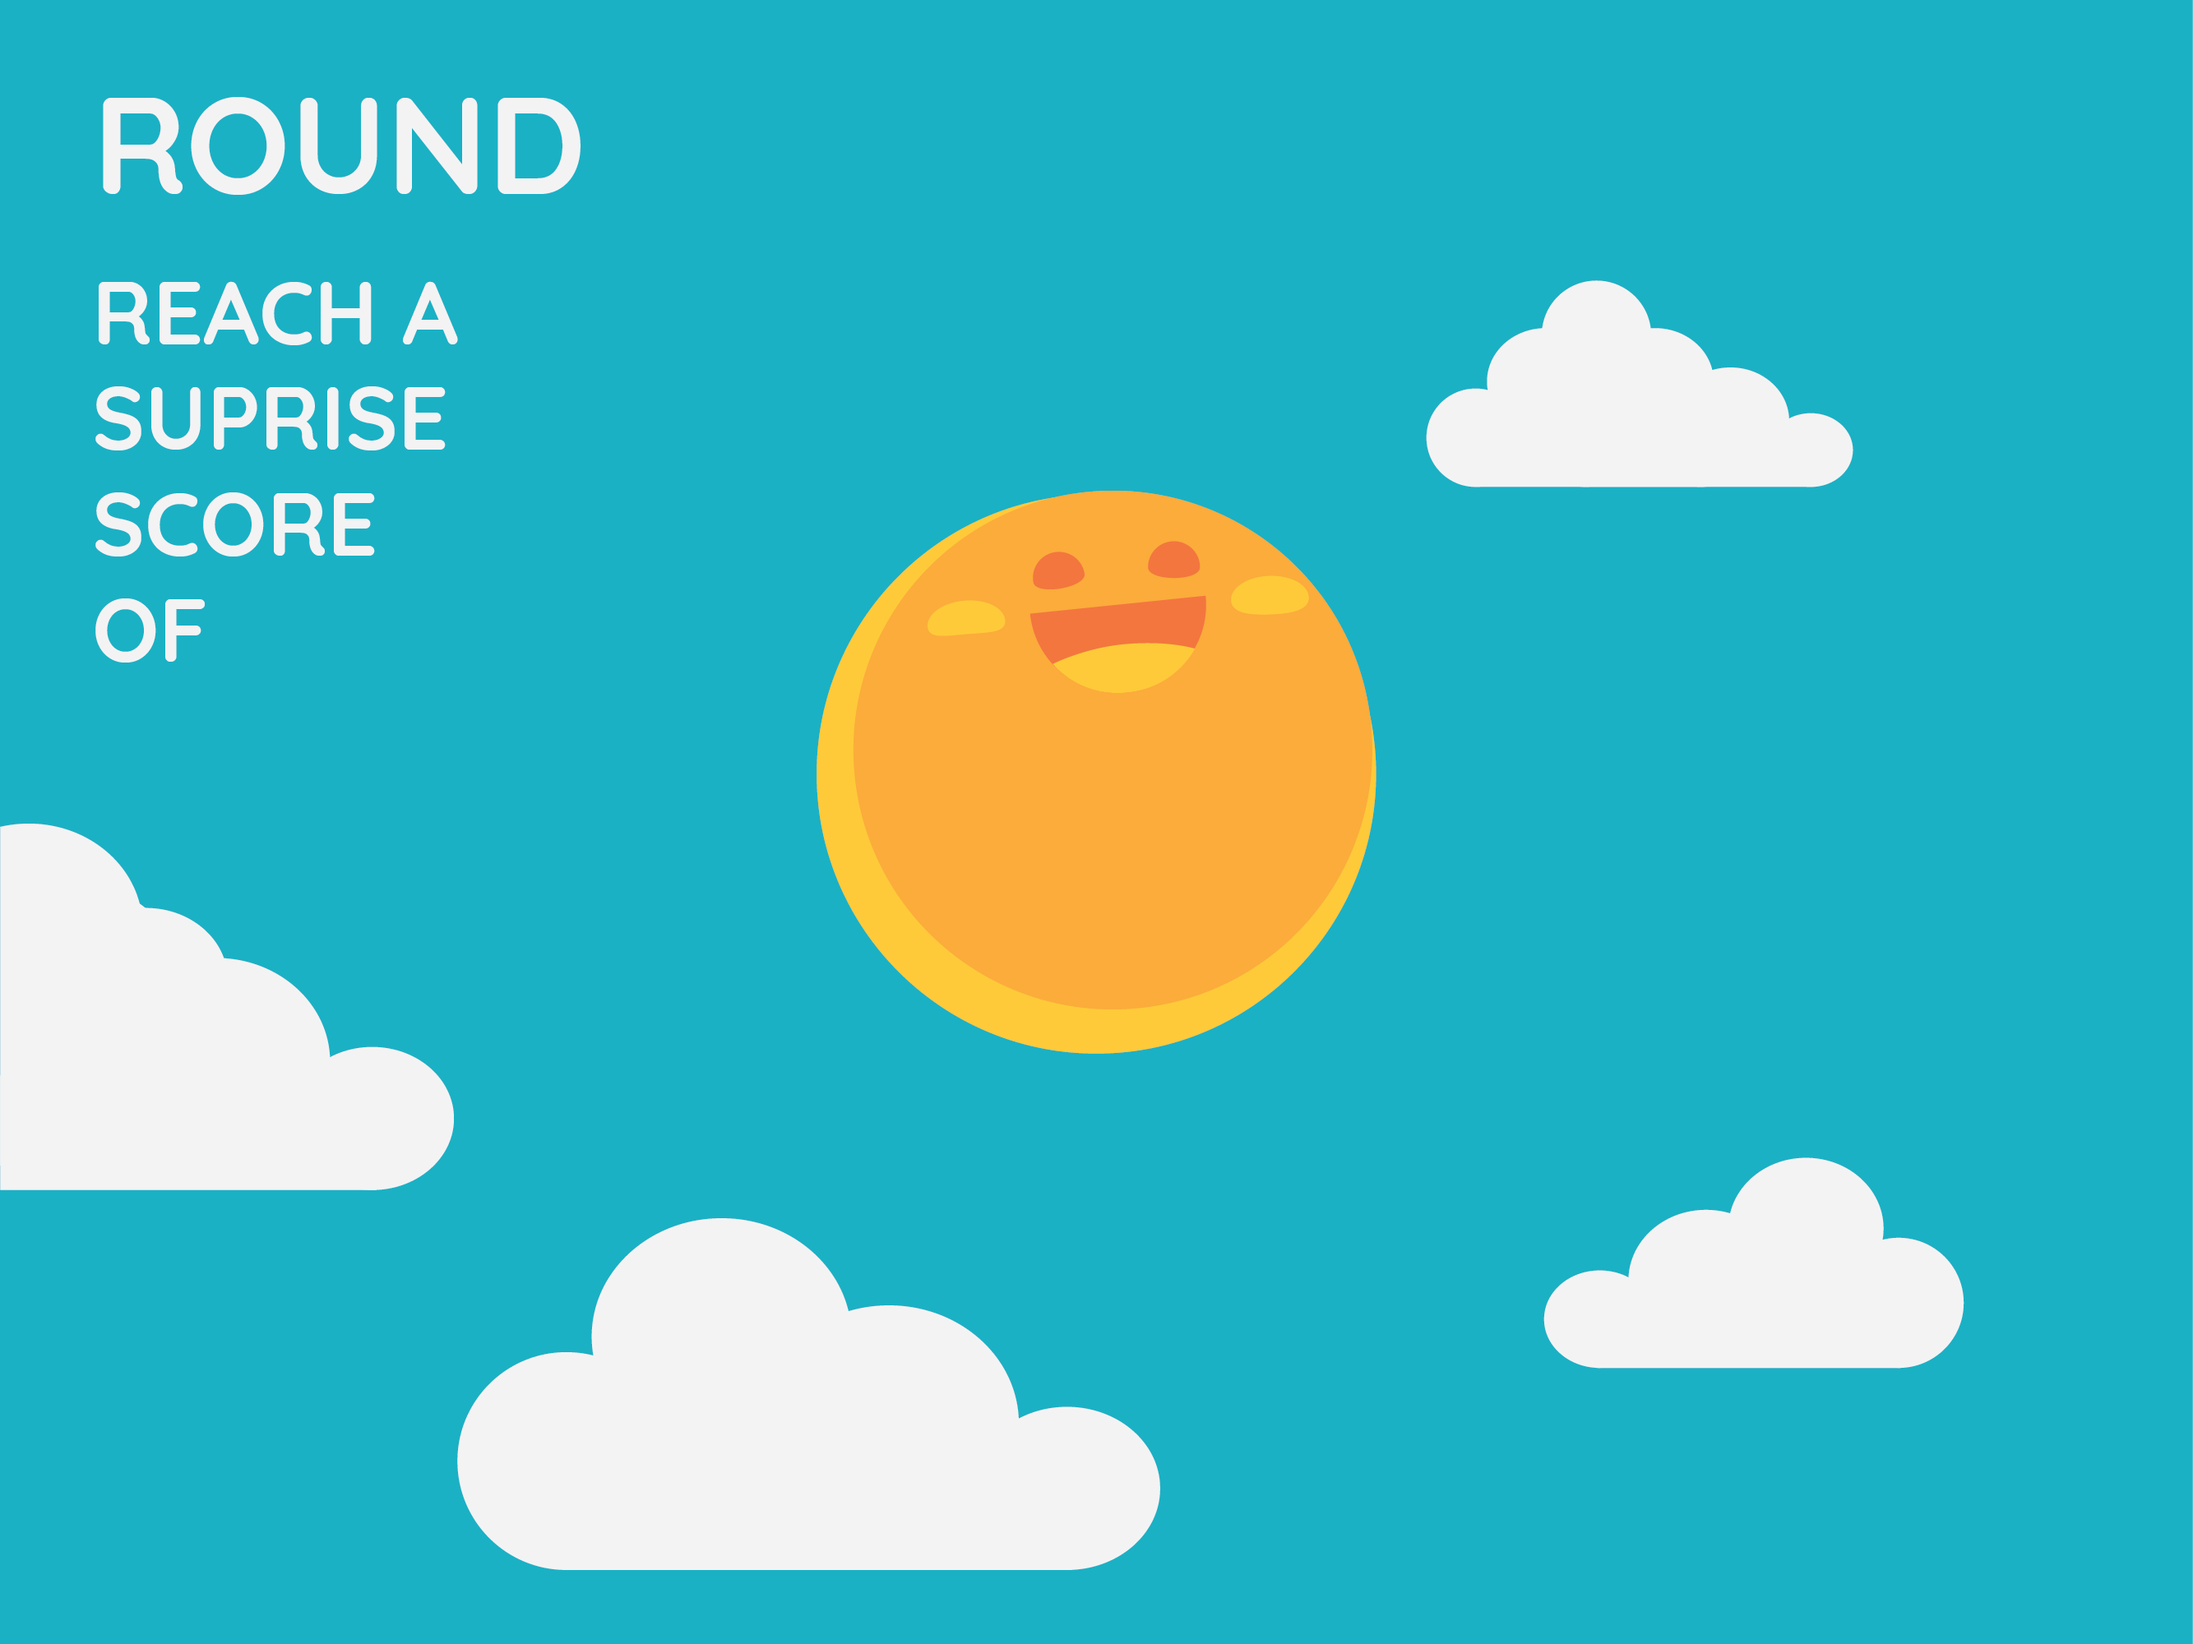
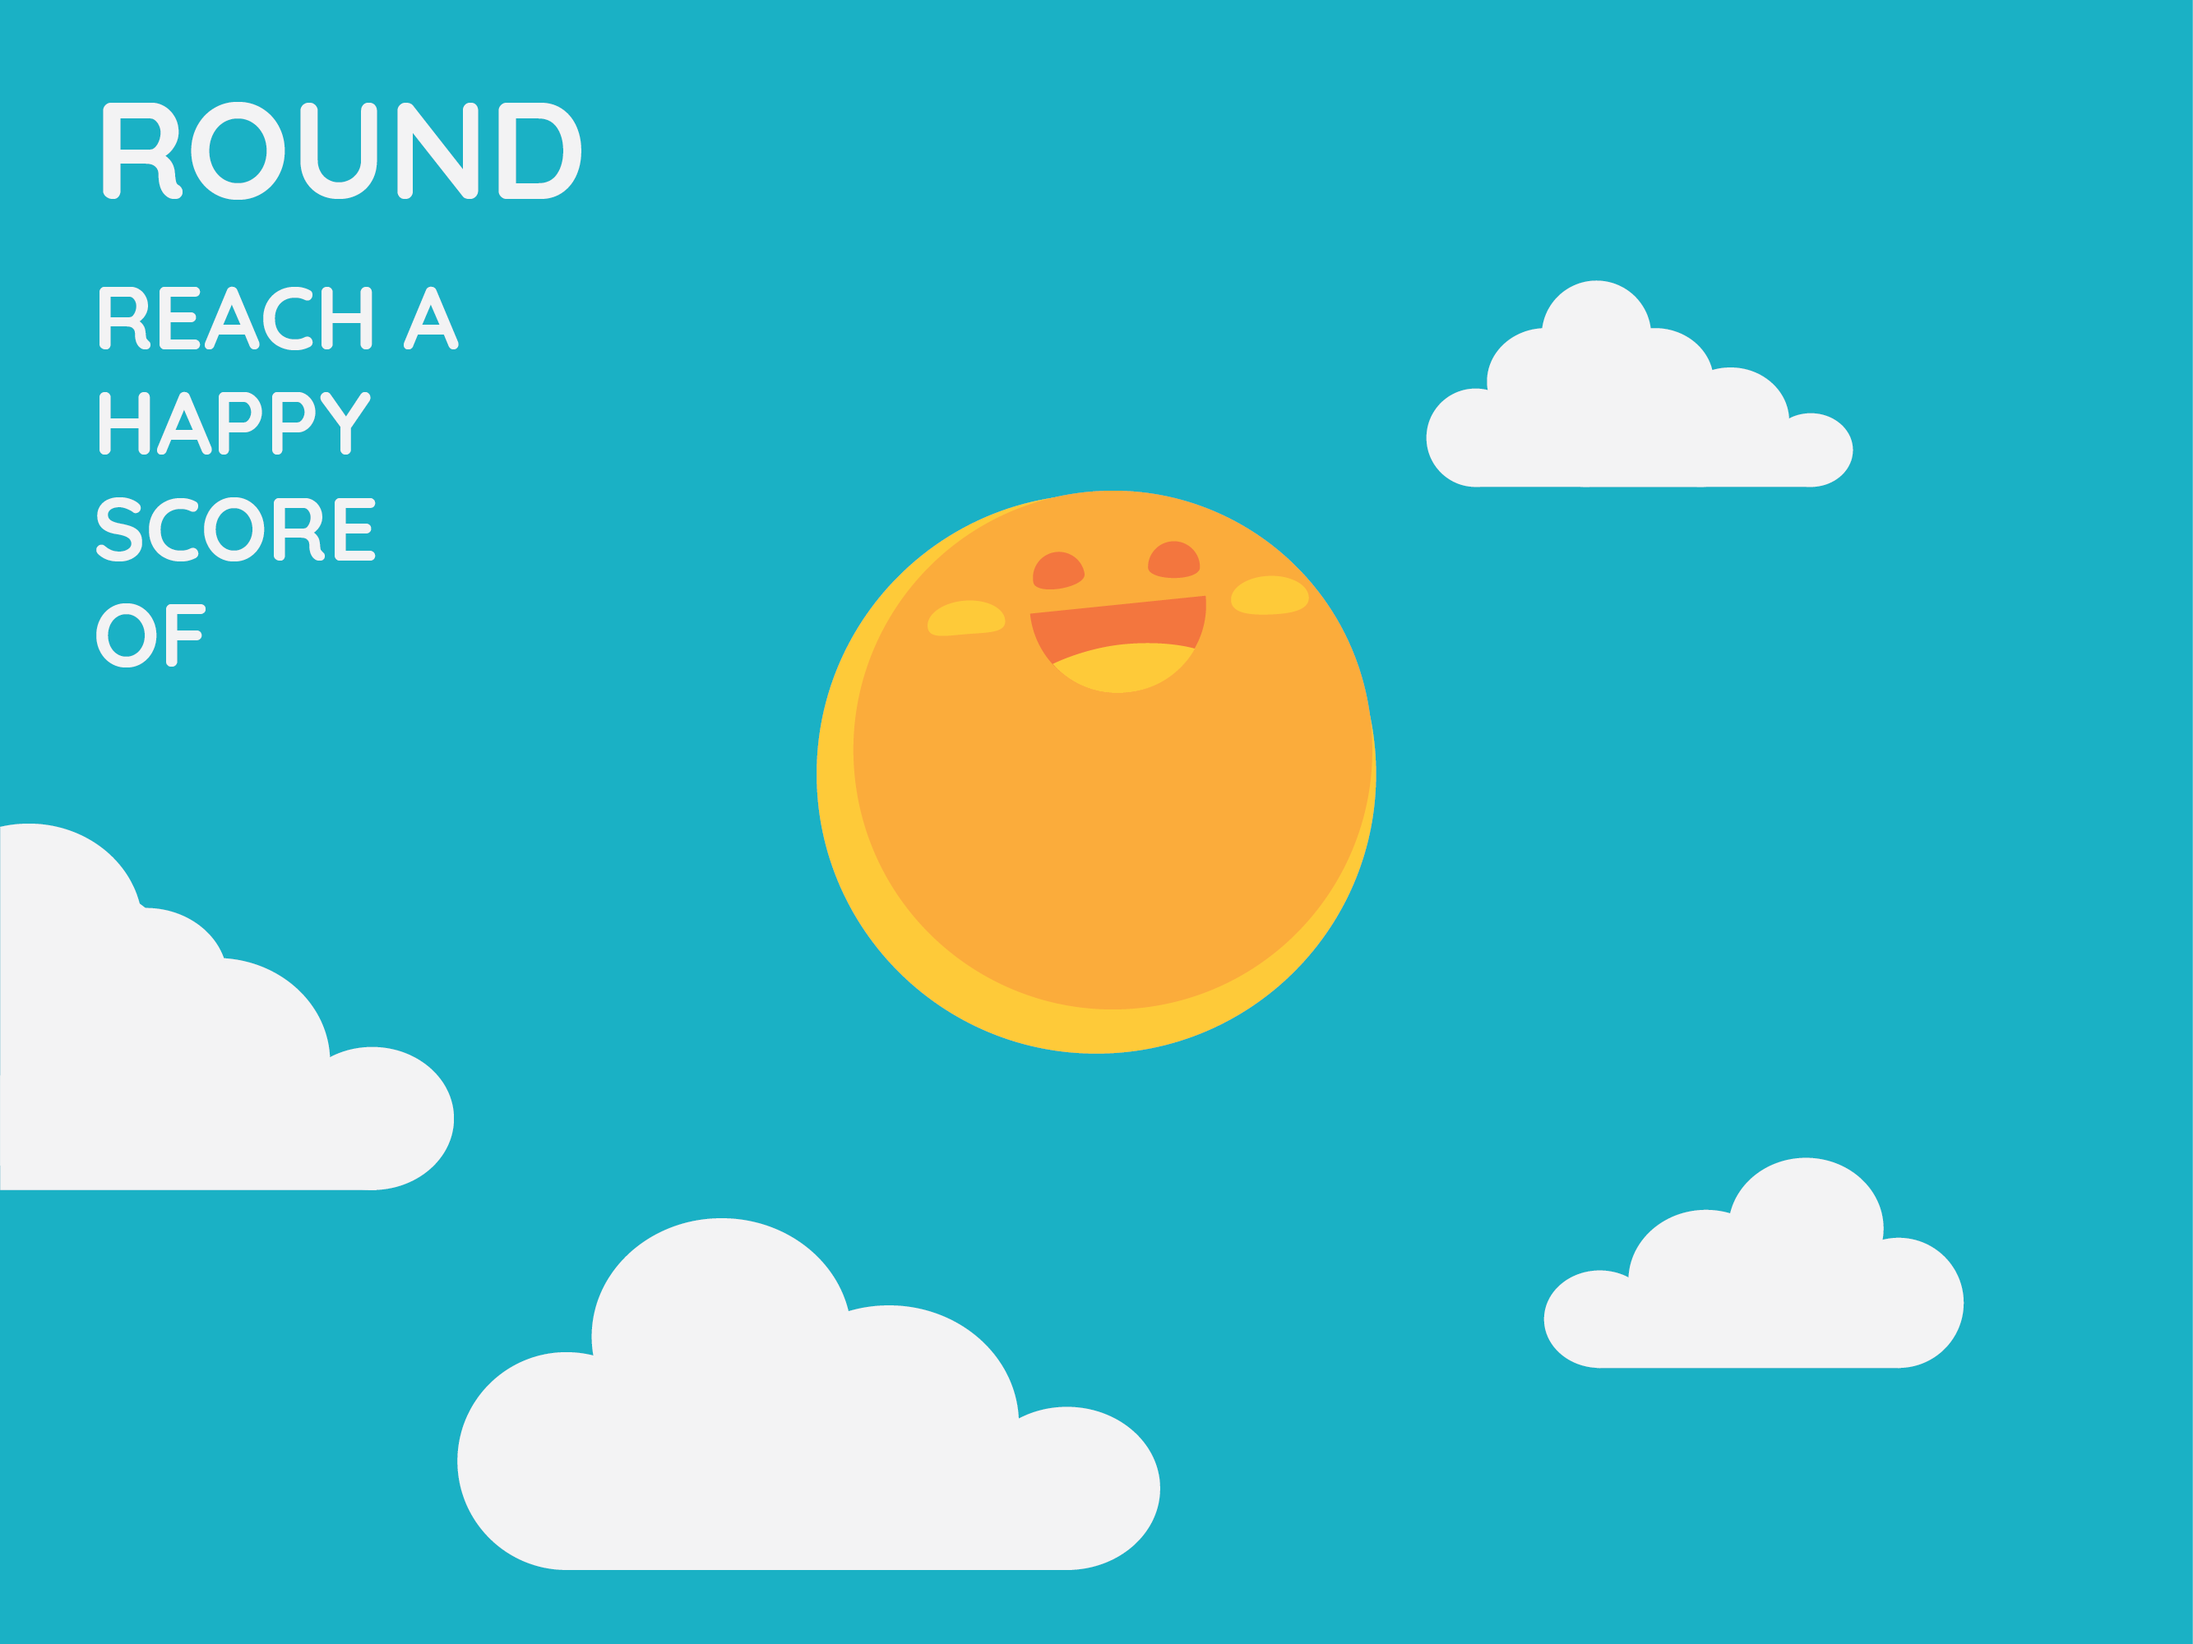
images

Changed region(s): [[0.0311, 0.155, 0.2178, 0.403], [0.0622, 0.062, 0.2801, 0.124]]

diff --git a/demo/GameSystem/ImageProvider.cs b/demo/GameSystem/ImageProvider.cs
@@ -19,7 +19,7 @@ namespace LiveCameraSample
         {
             get
             {
-                string fullPath = Path.GetFullPath("Data/round_happy.png");
+                string fullPath = Path.GetFullPath("Data/round_sad.png");
                 return new BitmapImage(new Uri(fullPath));
             }
         }
@@ -27,19 +27,11 @@ namespace LiveCameraSample
         {
             get
             {
-                string fullPath = Path.GetFullPath("Data/round_happy.png");
+                string fullPath = Path.GetFullPath("Data/round_angry.png");
                 return new BitmapImage(new Uri(fullPath));
             }
         }
         public static BitmapImage DisgussedRound
-        {
-            get
-            {
-                string fullPath = Path.GetFullPath("Data/round_happy.png");
-                return new BitmapImage(new Uri(fullPath));
-            }
-        }
-        public static BitmapImage ContemptRound
         {
             get
             {
@@ -59,7 +51,7 @@ namespace LiveCameraSample
         {
             get
             {
-                string fullPath = Path.GetFullPath("Data/round_happy.png");
+                string fullPath = Path.GetFullPath("Data/round_suprised.png");
                 return new BitmapImage(new Uri(fullPath));
             }
         }

diff --git a/demo/GameSystem/RoundEmotion.cs b/demo/GameSystem/RoundEmotion.cs
@@ -10,7 +10,6 @@ namespace LiveCameraSample
     public enum EmotionType
     {
         Anger,
-        Contempt,
         Disgust,
         Fear,
         Happiness,
@@ -107,8 +106,6 @@ namespace LiveCameraSample
             {
                 case EmotionType.Anger:
                     return ImageProvider.AngryRound;
-                case EmotionType.Contempt:
-                    return ImageProvider.ContemptRound;
                 case EmotionType.Disgust:
                     return ImageProvider.DisgussedRound;
                 case EmotionType.Fear:
